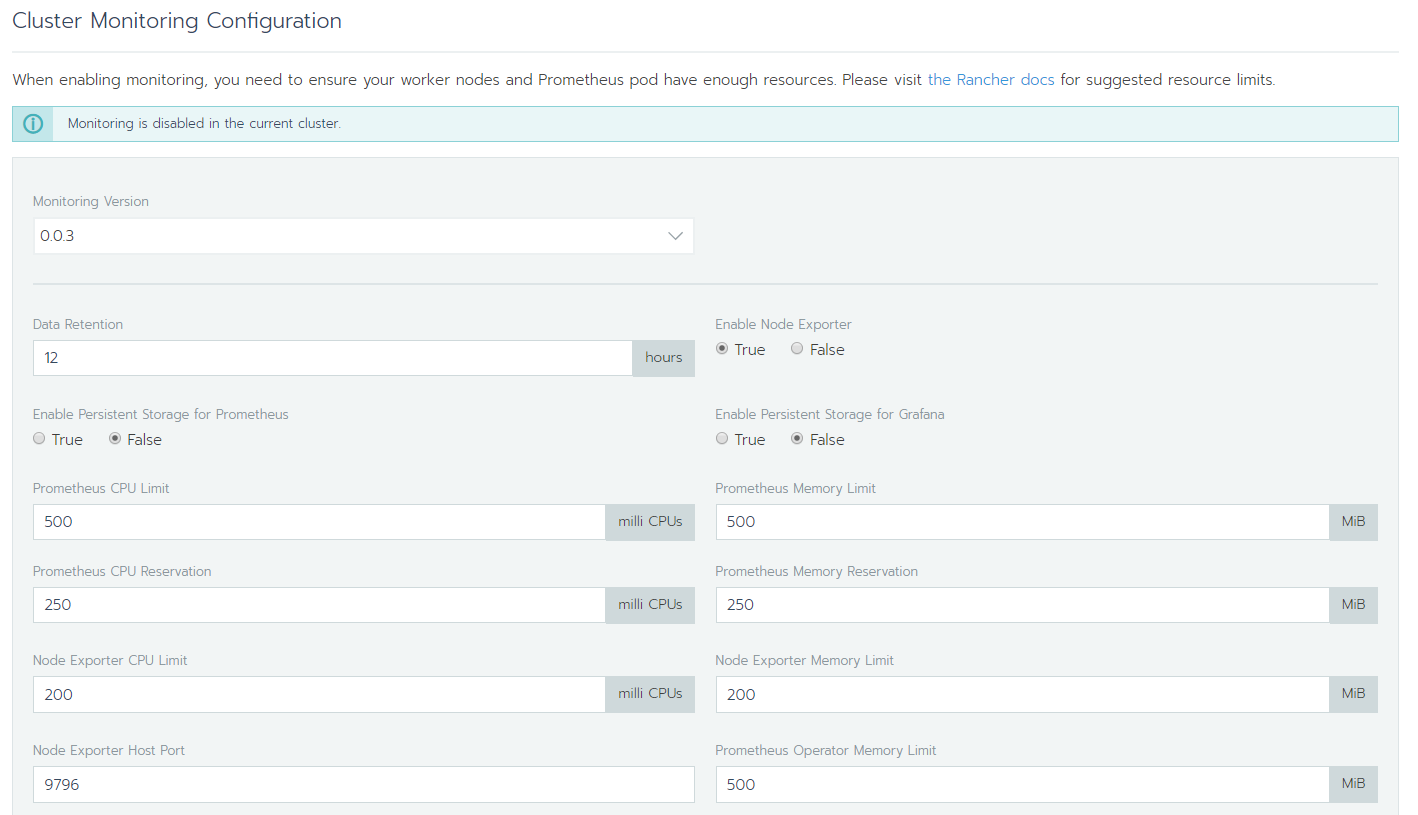
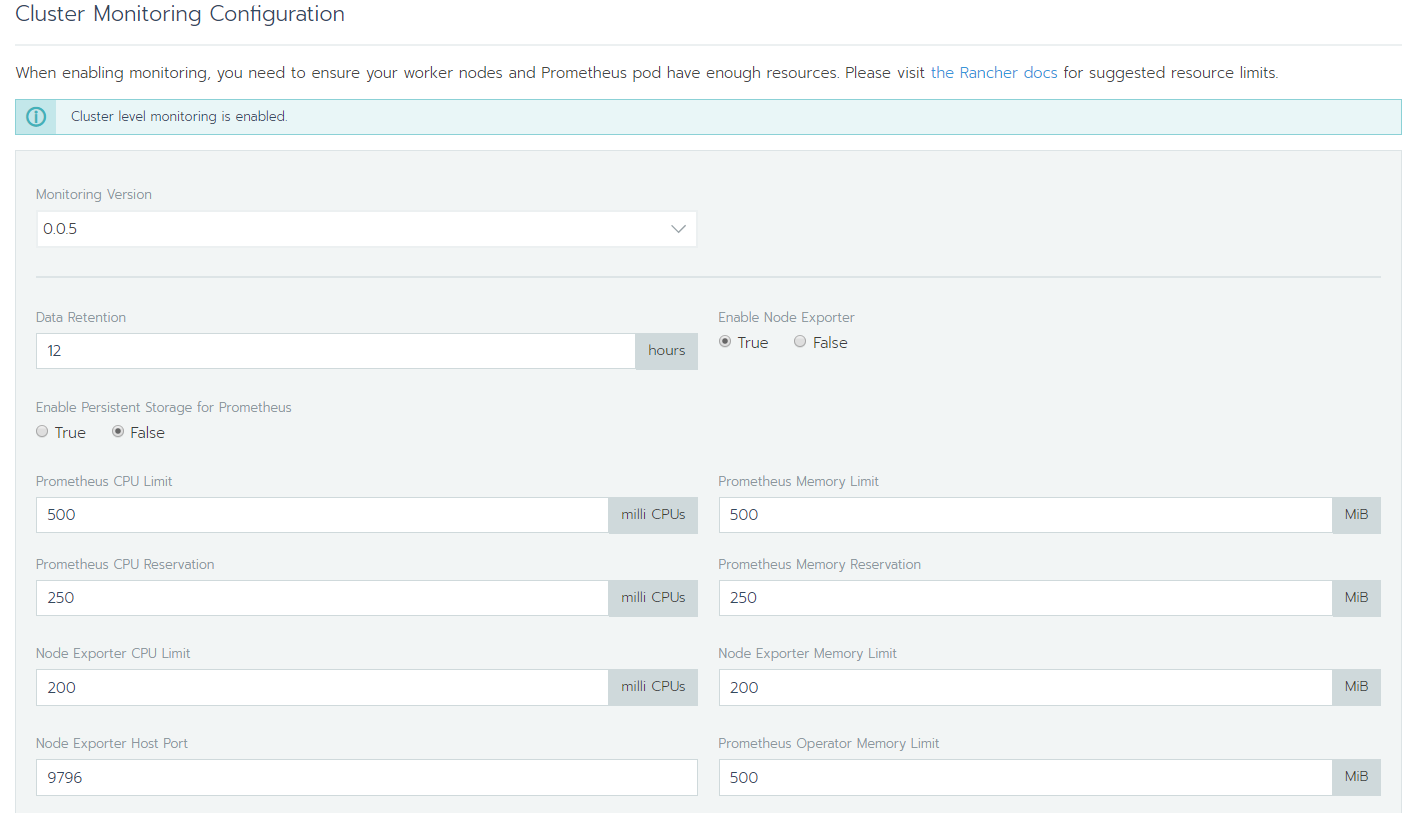
Added vm install and correct rancher installation

diff --git a/rancher/readme.md b/rancher/readme.md
@@ -4,45 +4,47 @@
 
 Install the CustomResourceDefinition resources separately
 
-```powershell
+```bash
 kubectl apply -f https://raw.githubusercontent.com/jetstack/cert-manager/release-0.10/deploy/manifests/00-crds.yaml
 ```
 
 Create the namespace for cert-manager
 
-```powershell
+```bash
 kubectl create namespace cert-manager
 ```
 
 Label the cert-manager namespace to disable resource validation
 
-```powershell
+```bash
 kubectl label namespace cert-manager certmanager.k8s.io/disable-validation=true
 ```
 
 Add the Jetstack Helm repository
 
-```powershell
+```bash
 helm repo add jetstack https://charts.jetstack.io
 ```
 
 Update your local Helm chart repository cache
 
-```powershell
+```bash
 helm repo update
 ```
 
 Install the cert-manager Helm chart
 
-```powershell
+```bash
 helm install --name cert-manager --namespace cert-manager --version v0.10.1 jetstack/cert-manager
 ```
 
-```powershell
+```bash
 kubectl get pods --namespace cert-manager
 ```
 
 ## Install rancher
+
+### Add an ingress with TLS
 
 Provide an ingress proxy with SSL support. First create the certificate with mkcert (or omgwftssl) for the domain you want. Here we choose `rancher.olympus.home`
 
@@ -85,7 +87,7 @@ Install an ingress proxy controller to expose the future rancher website. The ra
 helm install stable/nginx-ingress --name ingress-nginx --namespace ingress-nginx
 ```
 
-Since we're runnign on bare-metal, kubernetes has no clue on which infrastructure it is running on. We need to expose the external ip directly
+Since we're running on bare-metal, kubernetes has no clue on which infrastructure it is running on. We need to expose the external ip directly
 
 ```bash
 kubectl patch svc ingress-nginx-nginx-ingress-controller --namespace=ingress-nginx -p '{"spec": {"type": "LoadBalancer", "externalIPs":["192.168.0.200"]}}'
@@ -103,37 +105,65 @@ Add the external IP manually and apply
 kubectl apply -f ./rancher/ingress-controller.yaml
 ```
 
-Next install rancher
+### Install Rancher
+
+Next we're going to install rancher. We want the alpha version, since we would like to install istio later on.
 
 ```powershell
-helm repo add rancher-alpha https://releases.rancher.com/server-charts/alpha
+helm repo add rancher-latest https://releases.rancher.com/server-charts/latest
 
 kubectl create namespace cattle-system
+```
 
+Add the certificates for the installer to find.
+
+```bash
 kubectl -n cattle-system create secret generic tls-ca --from-file=cacerts.pem
 
 kubectl -n cattle-system create secret tls tls-rancher-ingress --key ./rancher.olympus.home+3-key.pem --cert ./rancher.olympus.home+3.pem
-
-helm install rancher-alpha/rancher --name rancher --namespace cattle-system --set hostname=rancher.olympus.home --set ingress.tls.source=secret --set privateCA=true --version 2.3.0-alpha7
 ```
 
-Now open your browser at [rancher](https://rancher.olympus.home)
+Run the helm chart
 
-```powershell
-kubectl -n cattle-system create secret tls rancher-cert --key ./rancher.localhost+3-key.pem --cert ./rancher.localhost+3.pem
-
+```bash
+helm install rancher-latest/rancher --name rancher --namespace cattle-system --set hostname=rancher.olympus.home --set ingress.tls.source=secret --set privateCA=true --version 2.3.2-rc3
 ```
+
+Now open your browser at [rancher](https://rancher.olympus.home) and create your login.
+
+![installed](./Rancher-Installed.png)
+
+Note how the `cattle-cluster-agent` cannot start properly. That is due to the fact that we use a hostname that is not resolvable from the internet. We didn't use a DNS server to point to this installation.
+
+We need to allow the agent to use the node's /etc/hosts file.
+
+![cattle-cluster-agent-host-issue](./cattle-cluster-agent-host-issue.png "cattle-cluster-agent-host-issue")
+![cattle-cluster-agent-host-edit](./cattle-cluster-agent-host-edit.png "cattle-cluster-agent-host-edit")
+![cattle-cluster-agent-host-advancedsettings](./cattle-cluster-agent-host-advancedsettings.png "cattle-cluster-agent-host-advancedsettings")
+![cattle-cluster-agent-host-namespace](./cattle-cluster-agent-host-namespace.png "cattle-cluster-agent-host-namespace")
+
+And save ;)
 
 ## Monitoring & Istio install from Rancher
 
-Rancher allow istio to be install automatically given minimum version `2.3.0-alpha5`
+### Monitoring with Prometheus
 
-For the monitoring, divide the default by a factor 4, since for a single node that shoudl be more than enough.
+Adding monitoring through rancher, adds a Prometheus service to scrape the information from the cluster.
 
-![Monitoring settings](./Monitoring-Settings.png "Monitoring settings")
+![prometheus](./Monitoring-Settings.png)
 
-Next add Istio. Same here, divide the default settings by 4. I used the following:
+I slimmed down the defaults, since this cluster is not to take the heavy load a cluster usually does. We only use this one for demo purposes. In general go with the defaults for a production environment.
 
-![Istio Pilot settings](./Istio-Pilot-Settings.png "Pilot settings")
-![Istio Mixer settings](./Istio-Mixer-Settings.png "Mixer settings")
-![Istio Tracing settings](./Istio-Tracing-Settings.png "Tracing settings")
+Wit monitoring enabled, we get extra live information.
+
+![monitoring](./Monitoring-Enabled.png)
+
+### Istio
+
+Rancher allows istio to be install automatically given minimum version `2.3.0-alpha5`. We installed Rancher `2.3.2-rc3`, so all good there.
+
+Next add Istio. For this cluster, divide the default settings roughly by 4. I used the following:
+
+![Istio Pilot settings](./Istio-Pilot-Settings2.png "Pilot settings")
+![Istio Mixer settings](./Istio-Mixer-Settings2.png "Mixer settings")
+![Istio Tracing settings](./Istio-Tracing-Settings2.png "Tracing settings")

diff --git a/kubernetes/readme.md b/kubernetes/readme.md
@@ -20,6 +20,21 @@ Add the Ubuntu ISO to the CD drive, which I downloaded from the site, then uploa
 
 Boot up each machine and just follow the installer of ubuntu server, accepting the defaults. I added the OpenSSH server and imported my github key so I didn't needed to setup ssh access any further.
 
+![Install1](Install1.png)
+![Install2](Install2.png)
+![Install3](Install3.png)
+![Install4](Install4.png)
+![Install5](Install5.png)
+![Install6](Install6.png)
+![Install7](Install7.png)
+![Install8](Install8.png)
+![Install9](Install9.png)
+![Install10](Install10.png)
+![Install11](Install11.png)
+![Install12](Install12.png)
+![Install13](Install13.png)
+![Install14](Install14.png)
+
 Then SSH into each machine in a separate terminal.
 
 ```powershell
@@ -83,6 +98,19 @@ sudo rm -f /swap.img
 sudo systemctl enable docker.service
 ```
 
+### Add DNS entries
+
+```bash
+sudo nano /etc/hosts
+```
+
+and add the following
+
+```hosts
+<vm-ip> <vm-name> <vm-name>.olympus.home
+<vm-ip> rancher rancher.olympus.home
+```
+
 ## Setup kubernetes
 
 ### Setup the master node
@@ -117,6 +145,8 @@ Use the following command on each of the worker nodes
 kubeadm join 192.168.0.200:6443 --token 5auxv4.26************90 --discovery-token-ca-cert-hash sha256:01e5ef2c************************************************6a4ff89564
 ```
 
+If you ever need to reconstruct this command, check out the [blog post of Scott Lowe]( https://blog.scottlowe.org/2019/08/15/reconstructing-the-join-command-for-kubeadm/ ).
+
 At this point your Kubernetes Cluster is up and running. You can use the `kubectl` command from the Master node to query the cluster information.
 
 ```bash
@@ -130,11 +160,17 @@ kubectl get nodes
 kubectl describe nodes
 ```
 
-Once all are in the rady state we have a working Kubernetes cluster with 3 nodes (one master node and 2 worker nodes).
+Once all are in the ready state we have a working Kubernetes cluster with 3 nodes (one master node and 2 worker nodes).
 
 ### Post install
 
-we have `kubectl` once we ssh into the master node, but we might want to get the same access from an external machine. To do so, we copy the `~/.kube/config` to our local machine and add it to our local `KUBECONFIG` env variable.  More on this in [kubectl configuration](../kubectl/readme.md)
+we have `kubectl` once we ssh into the master node, but we might want to get the same access from an external machine. To do so, we copy the `~/.kube/config` to our local machine and add it to our local `KUBECONFIG` env variable.  
+
+```bash
+scp your-username@192.168.0.200:/home/your-username/.kube/config C:/Users/your-username/.kube/config-esxi-kubernetes
+```
+
+More on this in [kubectl configuration](../kubectl/readme.md)
 
 #### Footnotes
 

diff --git a/kubectl/readme.md b/kubectl/readme.md
@@ -18,19 +18,25 @@ Then configure your configuration by adding extra `KUBECONFIG` files
 
 ![1571604877989](1571604877989.png)
 
-Each of the files describes your access to a particular cluster. To get that configuration, ssh into your master node and copy the config from `~/.kube/config`. Make sure that there is no conflicting naming with other config files as each key has to be unique across config files. You could also point the `KUBECONFIG` to one file and switch contexts using the ENV variable. However when all are loaded, you can switch context with
+Each of the files describes your access to a particular cluster. To get that configuration, ssh into your master node and copy the config from `~/.kube/config`.
 
-```	bash
-kubectl config get-contexts                          # display list of contexts 
+```bash
+scp your-username@192.168.0.200:/home/your-username/.kube/config C:/Users/your-username/.kube/config-esxi-kubernetes
+```
+
+Make sure that there is no conflicting naming with other config files as each key has to be unique across config files. You could also point the `KUBECONFIG` to one file and switch contexts using the ENV variable. However when all are loaded, you can switch context with
+
+```bash
+kubectl config get-contexts                          # display list of contexts
 kubectl config current-context                       # display the current-context
 kubectl config use-context my-cluster-name           # set the default context to my-cluster-name
 
 ```
 
-Once you selected the correct config, you should be able to describe the cluster
+Once you selected the correct config, you should be able to describe the cluster on your local machine
 
 ```bash
 kubectl cluster-info
 ```
 
-Ref: [conneting to multiple clusters](https://kubernetes.io/docs/tasks/access-application-cluster/configure-access-multiple-clusters/)
+Ref: [connecting to multiple clusters](https://kubernetes.io/docs/tasks/access-application-cluster/configure-access-multiple-clusters/)

diff --git a/helm/readme.md b/helm/readme.md
@@ -16,7 +16,7 @@ kubectl get pods --namespace kube-system | grep tiller
 Current version of helm is incompatible with kubernetes 1.16. Some api versions got deprecated. To work around that, update those
 
 ```bash
-helm init --service-account tiller --override spec.selector.matchLabels.'name'='tiller',spec.selector.matchLabels.'app'='helm' --output yaml >> ./helm/tiller.yaml
+helm init --service-account tiller --override spec.selector.matchLabels.'name'='tiller',spec.selector.matchLabels.'app'='helm' --output yaml > ./helm/tiller.yaml
 sed 's@apiVersion: extensions/v1beta1@apiVersion: apps/v1@'
 kubectl apply -f ./helm/tiller.yaml
 ```

diff --git a/dashboard/readme.md b/dashboard/readme.md
@@ -29,7 +29,7 @@ Look for `admin-user-token-xxxxx` and get the token with
 kubectl -n kubernetes-dashboard describe secret admin-user-token-xxxxx
 ```
 
-or 
+or
 
 ```bash
 kubectl -n kubernetes-dashboard describe secret $(kubectl -n kubernetes-dashboard get secret | grep admin-user | awk '{print $1}')
